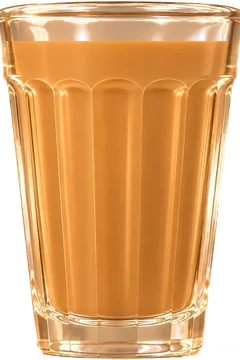
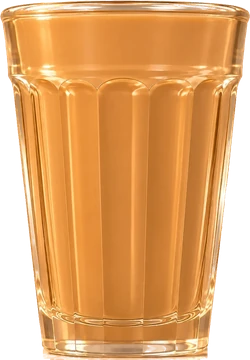
Pack s17-art4 landed (Zafar's run, 5 Nov): the glass to the rim with chai and with plain tea, cut in one box with the empty glass; the word moment's half lower (0.42) and full to the rim; the half and full item cards from the same glass, in plain tea for an order with no milk
Claude-Session: https://claude.ai/code/session_014xb3kS42Lf7xRVF3nvHior

diff --git a/js/cook/ui.js b/js/cook/ui.js
@@ -100,25 +100,25 @@
     box.className = "cook-wm cook-wm-now";
     host.appendChild(box);
     const A0 = "assets/shared/word-moment/";
-    ["counter-wm-s17", "glass-we-s17", "glass-wf-s17", "kettle-tilted-s17", "stream-chai-real-s17"].forEach((n) => (new Image().src = Cook.v(`${A0}${n}.webp`)));
+    ["counter-wm-s17", "glass-e2-s17", "glass-wr-s17", "kettle-tilted-s17", "stream-chai-real-s17"].forEach((n) => (new Image().src = Cook.v(`${A0}${n}.webp`)));
     const [WM] = await Promise.all([UI.needShared("word-moment"), UI.needShared("word-card")]);
     if (!WM || !global.WordCard) return box.remove(), false;
     Cook.save.seenStation = Cook.save.seenStation || {};
     Cook.save.seenStation[WM_KEY] = true;
     if (Cook.writeSave) Cook.writeSave();
     const A = "assets/shared/word-moment/";
-    // (CHAI-73, pack s17-wm: one glass in twelve stages, each in the same place on the counter: half is the 6th, full the 11th)
-    const fr = (k) => Array.from({ length: k }, (_, i) => Cook.v(`${A}glass-wm-${String(i + 1).padStart(2, "0")}-s17.webp`));
     // CHAI-79 (Zafar, 4 Nov): one steady glass, the tea drawn in it (half and nearly full); the cards keep the pack's own pictures
     // (pack s17-wm2, Zafar's run, 4 Nov: one large glass, empty and the same picture full; the tea's shape measured as it was cut,
     // assets/shared/word-moment/cut-data.json glass-wf-s17)
-    const TEA = {"top": 0.119, "bottom": 0.862, "rows": [[0.119, 0.0548, 0.9441], [0.1865, 0.0666, 0.9322], [0.2541, 0.0784, 0.9203], [0.3216, 0.0902, 0.9084], [0.3892, 0.102, 0.8965], [0.4567, 0.1138, 0.8846], [0.5243, 0.1256, 0.8727], [0.5918, 0.1374, 0.8608], [0.6594, 0.1492, 0.8489], [0.7269, 0.161, 0.8371], [0.7945, 0.1728, 0.8252], [0.862, 0.1846, 0.8133]]};
-    const glass = (id, fill, n) => ({
-      empty: Cook.v(`${A}glass-we-s17.webp`),
-      full: Cook.v(`${A}glass-wf-s17.webp`),
+    // (pack s17-art4, Zafar's run, 5 Nov: the same glass to the rim, chai and plain tea, all cut in one box with the empty one,
+    // build/tools/art/cut_s17_art4.py; the tea's inside measured as it was cut, cut-data.json glass-wr-s17)
+    const TEA = {"top": 0.0309, "bottom": 0.8909, "rows": [[0.0309, 0.0563, 0.9423], [0.1091, 0.0639, 0.9347], [0.1873, 0.074, 0.9246], [0.2654, 0.0967, 0.9019], [0.3436, 0.1068, 0.8918], [0.4218, 0.1181, 0.8805], [0.5, 0.1295, 0.8691], [0.5782, 0.1421, 0.8565], [0.6564, 0.1535, 0.8451], [0.7346, 0.1648, 0.8338], [0.8127, 0.1762, 0.8224], [0.8909, 0.1888, 0.8098]]};
+    const glass = (id, fill) => ({
+      empty: Cook.v(`${A}glass-e2-s17.webp`),
+      full: Cook.v(`${A}glass-wr-s17.webp`),
       tea: TEA,
       fill,
-      word: { id, kutchi: Cook.display(id), english: Cook.english(id), picture: fr(n)[n - 1] },
+      word: { id, kutchi: Cook.display(id), english: Cook.english(id), picture: Cook.v(`${A}card-${id === "ph-half" ? "half" : "full"}-chai-s17.webp`) },
       say: () => (Cook.Lang || Lang).speakWord(id),
     });
     const prev = Cook.expect;
@@ -135,7 +135,9 @@
         streamWipe: true,
         // (CHAI-80: the stream drawn, flowing, and its last drop; CHAI-82: the thin drawn corners, the corners' picture retired)
         scene: { src: Cook.v(`${A}counter-wm-s17.webp`), baseAt: 0.707, aspect: 1.5 },
-        glasses: [glass("ph-half", 0.5, 6), glass("ph-full", 1, 11)],
+        // (Zafar, 5 Nov: "more obviously show half and full (half should be a little lower than current end height, and full should be
+        // right to the rim)": half 0.42 of the inside, full to the rim (pack s17-art4's glass))
+        glasses: [glass("ph-half", 0.42), glass("ph-full", 1)],
         // CHAI-81 (Zafar, 4 Nov): both poured, a look at the two, then each snapped in turn, half a second in its frame before the shutter
         snap: "after",
         look: 900,
@@ -2776,7 +2778,7 @@
    * stage (English blank at 3, the picture at 4). A row whose words are dotted shows no picture and no English either (they
    * would be the answer the child is to hear). The eye's reveal is a hint (as the old eye was) and never advances the word.
    */
-  const WC_PIC = { "cook-maani": "assets/cook/items/v3/maani/maani-wheat-cooked.webp", "cook-bajrmaani": "assets/cook/items/v3/maani/maani-millet-cooked.webp", "ph-mishkaki": "assets/cook/items/mishkaki-meat-grilled-t.webp", "veg-14": "assets/cook/items/shelf-veg-14-jar-f.webp", "veg-13": "assets/cook/items/shelf-veg-13-jar-f.webp", "ph-half": "assets/shared/word-moment/glass-wm-06-s17.webp", "ph-full": "assets/shared/word-moment/glass-wm-11-s17.webp" }; // (half and full: the side-on glasses the word moment snapped, Zafar, 3 Nov: "the item cards for full and half cup need to be the side on views ... that's obviously the pictures that we have to use"; was the s14 overhead fills)
+  const WC_PIC = { "cook-maani": "assets/cook/items/v3/maani/maani-wheat-cooked.webp", "cook-bajrmaani": "assets/cook/items/v3/maani/maani-millet-cooked.webp", "ph-mishkaki": "assets/cook/items/mishkaki-meat-grilled-t.webp", "veg-14": "assets/cook/items/shelf-veg-14-jar-f.webp", "veg-13": "assets/cook/items/shelf-veg-13-jar-f.webp", "ph-half": "assets/shared/word-moment/card-half-chai-s17.webp", "ph-full": "assets/shared/word-moment/card-full-chai-s17.webp" }; // (half and full: the side-on glasses the word moment snapped, Zafar, 3 Nov: "the item cards for full and half cup need to be the side on views ... that's obviously the pictures that we have to use"; was the s14 overhead fills)
   // (the S14 roll-out: every Cook station's word cards: the daal and the flour, and the ph- things with a shelf picture, chaat's toppings and
   // samosa's fillings among them; lesson 6: a word that is said needs its picture)
   const WC_ID = /^(cook-(paani|dudh|chai|khun|daal|atto)|spi-[0-9]+|veg-[0-9]+|ph-(amli|chana|dahi|dhana|keema|lili|meat|sev|pepper))$/;
@@ -2790,6 +2792,22 @@
   // (s02Jar only for the station whose shelf takes them, chai's: Cook.shelfJars, set as it starts; another shelf, the tadka's, draws its own)
   const wcPicSrc = (id) => (Cook.shelfPic && Cook.shelfPic(id)) || (Cook.shelfJars && s02Jar(id)) || WC_PIC[id] || (WC_ID.test(id) ? `assets/cook/items/shelf-${id}-bare-f.webp` : null);
   const wcWordId = (r) => [...(r.ids || [])].reverse().find((id) => wcPicSrc(id)) || (r.ids || []).slice(-1)[0];
+  // (Zafar, 5 Nov: "we need that bigger difference shown on item cards, and we also need non-milk tea versions as item cards for
+  // non-milk tea orders": a person whose order says no milk has their half and full cards in plain tea; pack s17-art4,
+  // build/tools/art/teacards.py)
+  const TEA_PIC = { "ph-half": "assets/shared/word-moment/card-half-tea-s17.webp", "ph-full": "assets/shared/word-moment/card-full-tea-s17.webp" };
+  const noMilk = (r) => {
+    if (!r || !mission || !mission.ladders) return false;
+    try {
+      return mission.ladders.some((L) => Order().rows(L).some((x) => x !== r && x.no && (!r.for || x.for === r.for) && (x.ids || []).includes("cook-dudh")));
+    } catch (e) {
+      return false;
+    }
+  };
+  const rowPicSrc = (r) => {
+    const id = wcWordId(r);
+    return TEA_PIC[id] && noMilk(r) ? TEA_PIC[id] : wcPicSrc(id);
+  };
   const wcStage = (id) => {
     try {
       const P = Cook.core && Cook.core.progress;
@@ -2819,7 +2837,7 @@
       // (Cook.chipWord: the round's snapshot, so a card never changes mid-round)
       const newWord = Cook.chipWord ? Cook.chipWord(wcWordId(r)) : false;
       const at = (k) => (k === "pic" ? RL.cardPicture || newWord : RL.cardEnglish);
-      const srcB = wcPicSrc(wcWordId(r));
+      const srcB = rowPicSrc(r);
       const picB = srcB ? thumbOf(Cook.v(srcB), size) : null;
       return {
         word: {

diff --git a/build/tools/art/cut_s17_art4.py b/build/tools/art/cut_s17_art4.py
@@ -1,0 +1,129 @@
+"""Cut pack s17-art4's glasses (Zafar, 5 Nov): the empty glass (s17-wm2 WE) and the same glass to the rim with chai (WR) and with
+plain tea (WB), all three in ONE box so they lie over each other to the pixel, and the tea's inside measured from WR.
+
+Each is cut from its wall by the wall's own colour, row by row (the wall's colour read beside the glass), the glass's outline filled,
+nothing left of the counter below the base (the base's corners mirrored from its left, as ART-39). The word moment draws them over the
+same wall, so what shows through the clear glass is that wall again.
+
+  python3 build/tools/art/cut_s17_art4.py   # writes assets/shared/word-moment/glass-{e2,wr,wb}-s17.webp and cut-data.json's tea
+"""
+import json
+import os
+
+import numpy as np
+from PIL import Image
+
+ROOT = os.path.abspath(os.path.join(os.path.dirname(__file__), "..", "..", ".."))
+SRC = {
+    "e2": "sources/art/s17-wm2/we-chai-glass-empty-large-v1.webp",
+    "wr": "sources/art/s17-art4/wr-chai-glass-rim-v1.webp",
+    "wb": "sources/art/s17-art4/wb-tea-glass-rim-v1.webp",
+}
+OUT = "assets/shared/word-moment"
+W0, H0 = 1024, 1536
+
+
+def load(p):
+    im = Image.open(os.path.join(ROOT, p)).convert("RGB")
+    if im.size != (W0, H0):
+        c = Image.new("RGB", (W0, H0))
+        c.paste(im, (0, 0))
+        c.paste(im.crop((0, im.height - 1, W0, im.height)), (0, im.height))  # (a row short: its last row again)
+        im = c
+    return np.asarray(im).astype(float)
+
+
+def dist(a):
+    """Per pixel, how far from the wall at its row (the wall read at both edges, a straight blend across)."""
+    L = a[:, 8:48].mean(1, keepdims=True)
+    R = a[:, -48:-8].mean(1, keepdims=True)
+    t = np.linspace(0, 1, a.shape[1])[None, :, None]
+    wall = L + (R - L) * t
+    return np.sqrt(((a - wall) ** 2).sum(2))
+
+
+def outline(d, y0, y1):
+    """The glass's left and right edge per row (the outermost clearly not-wall pixels)."""
+    edges = {}
+    for y in range(y0, y1):
+        xs = np.where(d[y] > 24)[0]
+        xs = xs[(xs > 60) & (xs < W0 - 60)]
+        if len(xs) > 40:
+            edges[y] = (int(xs.min()), int(xs.max()))
+    return edges
+
+
+def main():
+    imgs = {k: load(p) for k, p in SRC.items()}
+    ds = {k: dist(a) for k, a in imgs.items()}
+    # the counter's top: the first row from the bottom third where the wall's colour changes all the way across
+    e = imgs["e2"]
+    rows = e[:, 8:48].mean(1)
+    top_counter = next(y for y in range(int(H0 * 0.7), H0) if np.sqrt(((rows[y] - rows[y - 6]) ** 2).sum()) > 18)
+    base = top_counter - 2
+    # one outline for all three: the union of their edges (they differ by a pixel or two)
+    eds = [outline(ds[k], 150, base) for k in imgs]
+    ys = sorted(set().union(*[set(x) for x in eds]))
+    y_top = ys[0]
+    edges = {}
+    for y in ys:
+        got = [x[y] for x in eds if y in x]
+        edges[y] = (min(g[0] for g in got), max(g[1] for g in got))
+    # (the base: below the last full-width rows, each row no wider than the row above, mirrored about the glass's middle)
+    mid = np.median([(l + r) / 2 for l, r in edges.values()])
+    prev = None
+    for y in ys:
+        l, r = edges[y]
+        half = max(mid - l, r - mid)
+        if prev is not None and y > base - 60:
+            half = min(half, prev)
+        edges[y] = (int(round(mid - half)), int(round(mid + half)))
+        prev = half
+    x0 = min(l for l, r in edges.values()) - 2
+    x1 = max(r for l, r in edges.values()) + 3
+    box = (x0, y_top - 2, x1, base + 1)
+    for k, a in imgs.items():
+        d = ds[k]
+        alpha = np.clip((d - 5) / (26 - 5), 0, 1)
+        mask = np.zeros_like(alpha)
+        for y, (l, r) in edges.items():
+            mask[y, l : r + 1] = 1
+            # (a soft pixel at each edge)
+            if l > 0:
+                mask[y, l - 1] = 0.5
+            if r + 1 < W0:
+                mask[y, r + 1] = 0.5
+        a8 = (np.clip(alpha, 0.0, 1.0) * mask * 255).astype(np.uint8)
+        rgba = np.dstack([a.astype(np.uint8), a8])
+        im = Image.fromarray(rgba, "RGBA").crop(box)
+        im.save(os.path.join(ROOT, OUT, f"glass-{k}-s17.webp"), "WEBP", quality=92, method=6)
+    bw, bh = box[2] - box[0], box[3] - box[1]
+    # the tea's inside, from WR against the empty glass: where they differ in the glass's middle is the tea; its top is just under
+    # the rim's lip, its bottom the inner floor, where the difference drops (the thick base below it only shows the tea through it)
+    e2, wr = imgs["e2"], imgs["wr"]
+    cx = int(mid)
+    diff = np.sqrt(((e2 - wr) ** 2).sum(2))[:, cx - 15 : cx + 15].mean(1)
+    span = range(box[1], box[3])
+    t_top = next(y for y in span if y > box[1] + bh * 0.03 and diff[y] > 90)
+    t_bot = next(y for y in reversed(span) if y < box[1] + bh * 0.9 and diff[y] > 95)
+    rows = []
+    for i in range(12):
+        y = int(round(t_top + (t_bot - t_top) * i / 11))
+        yy = min(edges, key=lambda q: abs(q - y))
+        l, r = edges[yy]
+        inset = 0.045 * (r - l)
+        rows.append([round((y - box[1]) / bh, 4), round((l + inset - box[0]) / bw, 4), round((r - inset - box[0]) / bw, 4)])
+    tea = {"top": rows[0][0], "bottom": rows[-1][0], "rows": rows}
+    cp = os.path.join(ROOT, OUT, "cut-data.json")
+    cut = json.load(open(cp))
+    for k in imgs:
+        e = {"file": f"shared/word-moment/glass-{k}-s17.webp", "w": bw, "h": bh, "_about": f"pack s17-art4 (Zafar, 5 Nov): one box for e2, wr and wb, cut by build/tools/art/cut_s17_art4.py from {SRC[k]}"}
+        if k == "wr":
+            e["tea"] = tea
+        cut["props"][f"glass-{k}-s17"] = e
+    json.dump(cut, open(cp, "w"), indent=1)
+    print("box", box, "size", (bw, bh), "counter top", top_counter, "tea", json.dumps(tea))
+
+
+if __name__ == "__main__":
+    main()

diff --git a/build/tools/art/teacards.py b/build/tools/art/teacards.py
@@ -50,17 +50,17 @@ def card(im):
 
 
 def main():
-    empty = load("glass-we-s17.webp")
+    empty = load("glass-e2-s17.webp") or load("glass-we-s17.webp")
     if empty is None:
         sys.exit("no empty glass")
     made = []
-    for kind, names in (("chai", ["glass-wr-s17.webp", "glass-wf-s17.webp"]), ("tea", ["glass-wb-s17.webp"])):
+    for kind, names in (("chai", ["glass-wr-s17.webp"]), ("tea", ["glass-wb-s17.webp"])):
         full = next((load(n) for n in names if load(n) is not None), None)
         if full is None:
             print(f"{kind}: no full picture yet ({', '.join(names)}): skipped")
             continue
         src = next(n for n in names if load(n) is not None)
-        tea = tea_of(src.replace(".webp", ""))
+        tea = tea_of("glass-wr-s17")  # (wr and wb share one box and one inside: cut_s17_art4.py)
         for lvl, lv in (("half", HALF), ("full", 1.0)):
             out = os.path.join(A, f"card-{lvl}-{kind}-s17.webp")
             card(at_level(empty, full, tea, lv)).save(out, "WEBP", quality=90, method=6)
